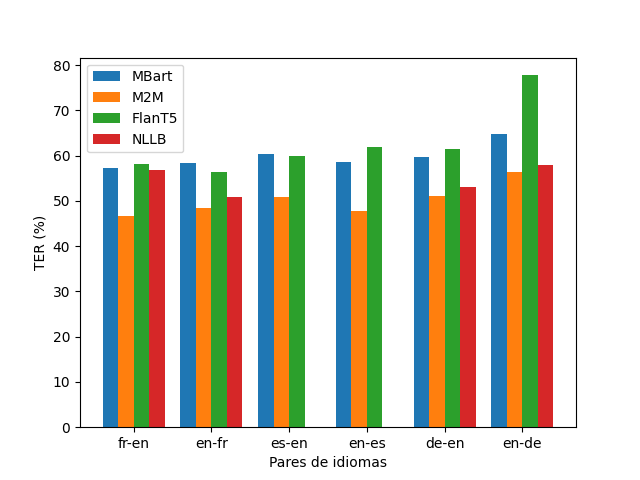
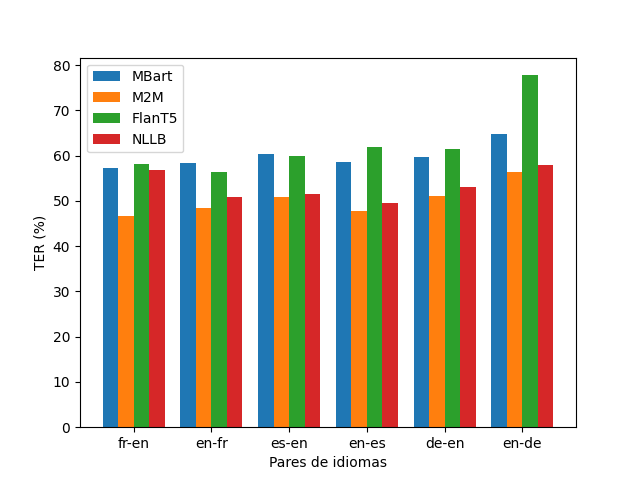
nllb completado

Changed region(s): [[0.5938, 0.4062, 0.625, 0.9062], [0.4688, 0.4062, 0.5, 0.9062]]

diff --git a/figuras/tabla.tex b/figuras/tabla.tex
@@ -22,9 +22,9 @@
  FlanT5   & es    & en    & 41.72 & 68.52 \\
  NLLB     & en    & fr    & 31.65 & 50.11 \\
  NLLB     & fr    & en    & 33.63 & 50.97 \\
- NLLB     & de    & en    &  0    &  0    \\
- NLLB     & en    & de    &  0    &  0    \\
- NLLB     & en    & es    &  0    &  0    \\
- NLLB     & es    & en    &  0    &  0    \\
+ NLLB     & de    & en    & 35.36 & 53.97 \\
+ NLLB     & en    & de    & 36.53 & 44.59 \\
+ NLLB     & en    & es    & 34.37 & 48.27 \\
+ NLLB     & es    & en    & 33.01 & 50.75 \\
 \hline
 \end{tabular}

diff --git a/eval/tabla.py b/eval/tabla.py
@@ -5,7 +5,7 @@ from argparse import ArgumentParser
 import numpy as np
 import os
 
-BAR_WIDTH = 0.2
+BAR_WIDTH = 0.2 
 XTICKS = [('fr','en'),('en','fr'),('es','en'),('en','es'),('de','en'),('en','de')]
 
 def get_latex(data):
